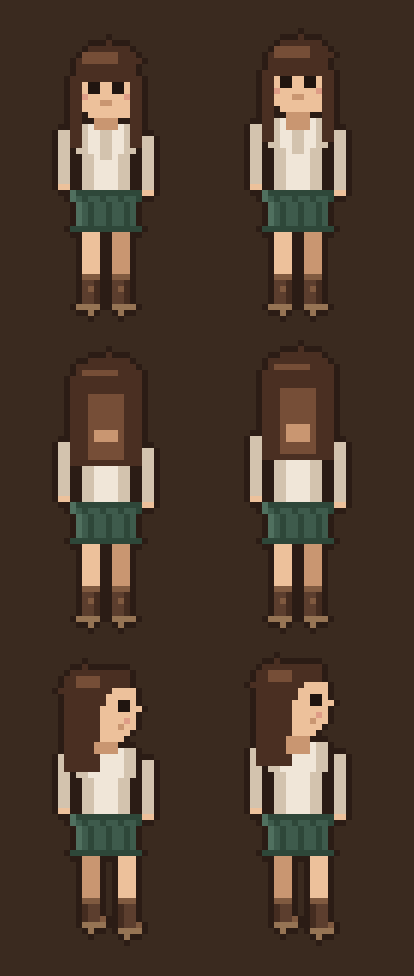
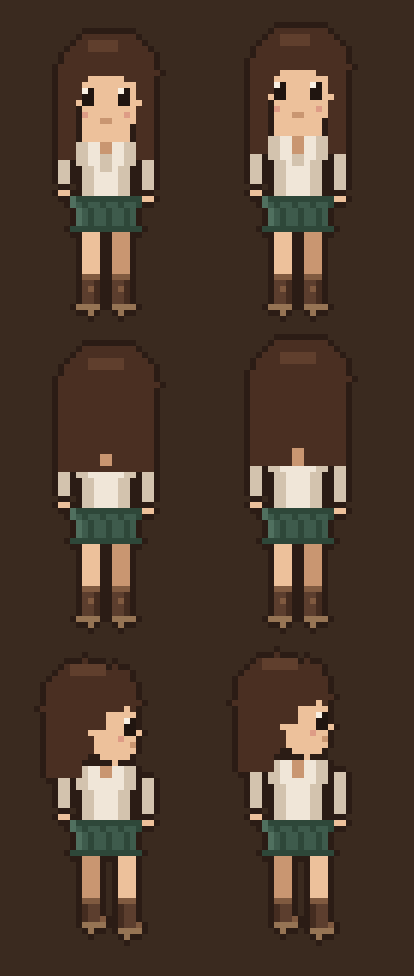
art: 主角改成大头像素比例，五官简化为色块（接近 GBA 宝可梦）

diff --git a/Tools/make_player_sprite.py b/Tools/make_player_sprite.py
@@ -33,6 +33,7 @@ OUTLINE = (43, 28, 21, 255)      # #2B1C15
 SKIN = (237, 193, 155, 255)      # #EDC19B
 SKIN_D = (201, 150, 113, 255)    # #C99671
 HAIR = (74, 47, 34, 255)         # #4A2F22
+HAIR_M = (96, 63, 45, 255)       # #603F2D 中间调，做受光面，比 HAIR_L 柔和
 HAIR_L = (118, 78, 55, 255)      # #764E37
 SHIRT = (240, 230, 216, 255)     # #F0E6D8 奶白衬衫
 SHIRT_D = (211, 195, 174, 255)   # #D3C3AE
@@ -44,14 +45,16 @@ BOOT_D = (68, 44, 32, 255)       # #442C20 靴子暗部
 BOOT_HI = (128, 90, 64, 255)     # #805A40 靴口翻边 / 鞋头高光
 BOOT_SOLE = (150, 116, 84, 255)  # #967454 鞋底与跟（暖褐，别和描边同色）
 EYE = (32, 21, 16, 255)
+EYE_HI = (248, 240, 228, 255)    # 眼里的高光点，大头娃娃的「活气」全靠这一格
 BLUSH = (222, 156, 134, 255)     # #DE9C86
 
-HAIR_TOP = 5
-CHIN = 17
-NECK = 18
-TORSO_TOP = 19
-TORSO_BOT = 29
-SKIRT_TOP = 30
+# 大头娃娃比例（GBA 宝可梦那种）：头占身高约 38%，身子短、腿短。
+HEAD_TOP = 4
+CHIN = 21
+NECK = 22
+TORSO_TOP = 22
+TORSO_BOT = 30
+SKIRT_TOP = 31
 SKIRT_BOT = 36
 LEG_TOP = 37
 BOOT_TOP = 44
@@ -101,55 +104,62 @@ class Canvas(object):
 
 
 def draw_head(cv, facing, bob, rise=0):
-    """头：长发、收窄的下巴、2×2 的眼睛 + 一点点腮红。"""
-    top = HAIR_TOP + bob - rise
+    """大头：头宽几乎盖过肩膀，眼睛用 2×3 的色块 + 一格高光，靠色块读表情而不是描细节。"""
+    top = HEAD_TOP + bob - rise
     chin = CHIN + bob - rise
-    mid = (top + chin) // 2
 
     if facing == 'side':
-        cv.ellipse(16, mid + 1, 5, 6, SKIN)
-        cv.ellipse(12, top + 4, 4, 4, HAIR)                 # 后脑
-        cv.rect(9, top + 4, 14, chin + 5, HAIR)             # 长发垂到肩下
-        cv.rect(11, top + 1, 19, top + 3, HAIR)             # 头顶
-        cv.rect(11, top + 2, 14, top + 3, HAIR_L)           # 高光
-        cv.rect(18, mid, 19, mid + 1, EYE)                  # 一只眼
-        cv.put(19, mid + 3, BLUSH)                          # 腮红
-        cv.put(18, chin - 2, SKIN_D)                        # 嘴
+        cv.ellipse(12, top + 8, 7, 8, HAIR)                 # 后脑一整块
+        cv.ellipse(17, top + 7, 4, 6, HAIR)                 # 头顶前半，别让头顶变成方角
+        cv.rect(6, top + 5, 11, chin + 2, HAIR)             # 长发垂到肩
+        cv.ellipse(17, top + 12, 4, 5, SKIN)                # 脸（侧脸窄一点）
+        cv.rect(13, top + 5, 20, top + 6, HAIR)             # 刘海压到眉上
+        cv.rect(13, top + 7, 18, top + 8, HAIR)             # 斜刘海，盖住一块额头
+        cv.rect(13, top + 9, 15, top + 11, HAIR)            # 前面的长鬓角
+        cv.rect(10, top + 1, 15, top + 2, HAIR_M)           # 头顶高光
+        cv.rect(19, top + 10, 20, top + 12, EYE)            # 一只大眼
+        cv.put(19, top + 10, EYE_HI)
+        cv.put(18, chin - 4, BLUSH)                         # 腮红
+        cv.put(20, chin - 3, SKIN_D)                        # 嘴
     else:
-        cv.ellipse(16, mid + 2, 5, 5, SKIN)                 # 脸收窄
-        cv.ellipse(16, top + 3, 5, 3, HAIR)     # 往上挪一格，别在眼睛那一行留一颗头发
-        cv.rect(11, top + 4, 20, top + 6, HAIR)
-        cv.rect(12, top + 2, 17, top + 3, HAIR_L)
-
         if facing == 'down':
-            cv.rect(10, top + 6, 11, chin + 5, HAIR)        # 左侧长发
-            cv.rect(20, top + 6, 21, chin + 5, HAIR)        # 右侧长发
-            cv.put(11, top + 7, HAIR)                       # 刘海只垂一格，不压到眼睛
-            cv.rect(13, chin - 5, 14, chin - 4, EYE)        # 左眼
-            cv.rect(17, chin - 5, 18, chin - 4, EYE)        # 右眼
-            cv.rect(15, chin - 2, 16, chin - 2, SKIN_D)     # 嘴
-            cv.put(12, chin - 3, BLUSH)                     # 腮红
-            cv.put(19, chin - 3, BLUSH)
+            cv.ellipse(16, top + 6, 8, 7, HAIR)             # 头发外轮廓
+            cv.put(16, top - 1, CLEAR)                      # 削掉椭圆顶上的单颗像素，不然像天线
+            cv.rect(8, top + 5, 10, chin + 3, HAIR)         # 左侧长发
+            cv.rect(21, top + 5, 23, chin + 3, HAIR)        # 右侧长发
+            cv.ellipse(16, top + 11, 5, 5, SKIN)            # 脸
+            cv.rect(12, top + 15, 19, chin, SKIN)           # 下巴补方，别收成尖下巴
+            cv.rect(10, top + 3, 21, top + 6, HAIR)         # 刘海横条（压住额头）
+            cv.rect(10, top + 6, 12, top + 7, HAIR)         # 左鬓角
+            cv.rect(19, top + 6, 21, top + 7, HAIR)         # 右鬓角
+            cv.rect(13, top + 1, 17, top + 2, HAIR_M)       # 头顶高光
+            cv.rect(12, top + 9, 13, top + 11, EYE)         # 左眼 2×3
+            cv.rect(18, top + 9, 19, top + 11, EYE)         # 右眼 2×3
+            cv.put(12, top + 9, EYE_HI)
+            cv.put(18, top + 9, EYE_HI)
+            cv.rect(15, top + 14, 16, top + 14, SKIN_D)     # 嘴
+            cv.put(12, top + 13, BLUSH)
+            cv.put(19, top + 13, BLUSH)
         else:
-            cv.rect(10, top + 4, 21, chin + 6, HAIR)        # 背面整片长发
-            cv.rect(13, top + 7, 18, chin + 5, HAIR_L)      # 中间纵向亮带
-            cv.rect(11, top + 2, 20, top + 4, HAIR)         # 头顶
-            cv.rect(12, top + 3, 17, top + 3, HAIR_L)
+            cv.ellipse(16, top + 6, 8, 7, HAIR)             # 背面整片头发
+            cv.put(16, top - 1, CLEAR)                      # 同样削掉顶上那一颗
+            cv.rect(8, top + 5, 23, chin + 3, HAIR)         # 长发盖住脖子
+            cv.rect(13, top + 2, 18, top + 3, HAIR_M)       # 头顶受光，跟着头的弧度走
 
-    cv.rect(14, chin + 1, 17, NECK + bob + 1, SKIN_D)       # 脖子（底端固定，吸气时变长）
+    cv.rect(15, chin + 1, 16, NECK + bob + 1, SKIN_D)       # 脖子（底端固定，吸气时变长）
 
 
 def draw_torso(cv, facing, bob, rise=0):
     t = TORSO_TOP + bob - rise                              # 肩线上移，腰线不动 → 胸腔变高
     b = TORSO_BOT + bob
-    cv.rect(11, t, 20, t + 4, SHIRT)                        # 肩
-    cv.rect(12, t + 5, 19, b, SHIRT)                        # 收腰
-    cv.rect(11, t, 12, t + 4, SHIRT_D)
-    cv.rect(19, t, 20, t + 4, SHIRT_D)
-    cv.rect(12, t + 5, 13, b, SHIRT_D)
-    cv.rect(18, t + 5, 19, b, SHIRT_D)
+    cv.rect(11, t, 20, t + 3, SHIRT)                        # 肩
+    cv.rect(12, t + 4, 19, b, SHIRT)                        # 收腰
+    cv.rect(11, t, 12, t + 3, SHIRT_D)
+    cv.rect(19, t, 20, t + 3, SHIRT_D)
+    cv.rect(12, t + 4, 13, b, SHIRT_D)
+    cv.rect(18, t + 4, 19, b, SHIRT_D)
     if facing == 'down':
-        cv.rect(15, t + 1, 16, t + 5, SHIRT_D)              # 前襟
+        cv.rect(15, t + 1, 16, t + 4, SHIRT_D)              # 前襟
 
 
 def draw_skirt(cv, facing, bob):
@@ -173,8 +183,8 @@ def draw_arms(cv, facing, phase, bob, rise=0):
     t = TORSO_TOP + bob + 1 - rise
     b = TORSO_BOT + bob + 1
     swing = (-1, 0, 1, 0)[phase]                            # -1 前 / +1 后
-    cv.rect(8, t + max(0, swing), 9, b - 1 + min(0, swing), SHIRT_D)
-    cv.rect(22, t + max(0, -swing), 23, b - 1 + min(0, -swing), SHIRT_D)
+    cv.rect(8, t + max(0, swing), 9, b - 2 + min(0, swing), SHIRT_D)
+    cv.rect(22, t + max(0, -swing), 23, b - 2 + min(0, -swing), SHIRT_D)
     cv.rect(8, b + min(0, swing), 9, b + min(0, swing), SKIN)
     cv.rect(22, b + min(0, -swing), 23, b + min(0, -swing), SKIN)
 
